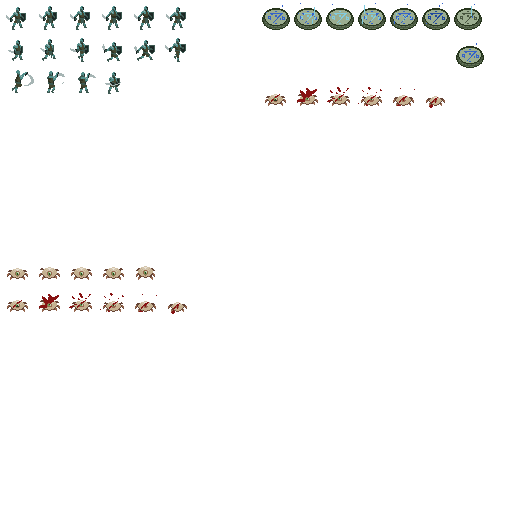
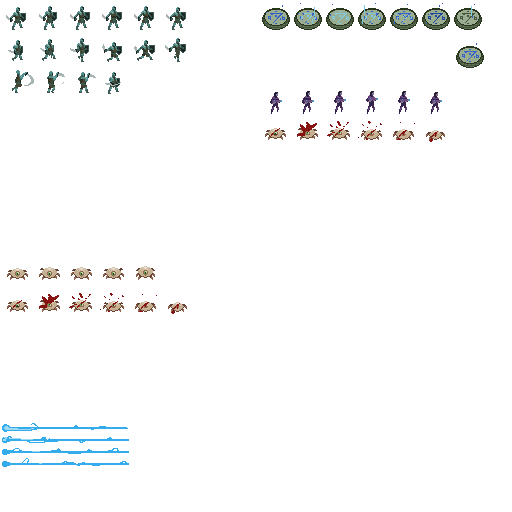
Laser beams!

Changed region(s): [[0.5, 0.1562, 0.875, 0.2812], [0.0, 0.8125, 0.25, 0.9375]]

diff --git a/Mission/Beam.cs b/Mission/Beam.cs
@@ -1,0 +1,55 @@
+using Otter;
+using System;
+using System.Collections.Generic;
+using System.Linq;
+using System.Text;
+using System.Threading.Tasks;
+
+namespace Bones
+{
+    public class Beam:Entity
+    {
+        private Spritemap<string> Sprite;
+        private List<Entity> HaveHit;
+        private float Angle;
+        public Beam(float x, float y, float angle, Entity owner)
+        {
+            Angle = angle;
+            SetPosition(x, y);
+
+            Sprite = AddGraphic(SpriteData.GetAnimation("beam"));
+            Sprite.ScaleX = 2;
+            Sprite.Play("attack");
+            Sprite.Angle = angle;
+            
+            var vec = new Vector2(Sprite.ScaledWidth,0);
+            vec =Util.Rotate(vec,angle);
+            AddCollider(new LineCollider(0, 0, vec.X, vec.Y));
+            Layer = owner.Layer - 100;
+
+            LifeSpan = 30;
+            HaveHit = new List<Entity>();
+        }
+
+        public override void Update()
+        {
+            Sprite.Alpha = 2 - (Timer / LifeSpan) * 2;
+
+            List<Entity> col = CollideEntities(X, Y, (int)Tags.Actor);
+            foreach (var c in col)
+            {
+                if (c is Enemy && !HaveHit.Contains(c))
+                {
+                    Enemy e = c as Enemy;
+                    e.Damage(1, Angle);
+                    HaveHit.Add(e);
+                }
+            }
+        }
+
+        public override void Render()
+        {
+            //Collider.Render();
+        }
+    }
+}

diff --git a/Mission/Player.cs b/Mission/Player.cs
@@ -67,12 +67,24 @@ namespace Bones
 
         private IEnumerator Attacking()
         {
-            Movement.Freeze = true;
+            Movement.Speed.X = 0;
+            Movement.Speed.Y = 0;
+            Movement.TargetSpeed.X = 0;
+            Movement.TargetSpeed.Y = 0;
             Sprite.Play("attack");
-            yield return 2;
-            Scene.Add(new Slash(X, Y-16, Angle, 0.8f, -0.8f*Side));
-            yield return 8;
-            Movement.Freeze = false;
+
+            if (Mission.Instance.World == 0)
+            {
+                yield return 2;
+                Scene.Add(new Slash(X, Y - 16, Angle, 0.8f, -0.8f * Side));
+                yield return 12;
+            }
+            else
+            {
+                yield return 8;
+                Scene.Add(new Beam(X + Side*10, Y - 18, Angle, this));
+                yield return 20;
+            }
             yield return SetState(Normal);
         }
 
@@ -158,6 +170,19 @@ namespace Bones
                 yield return 0;
             }
             yield return SetState(Normal);
+        }
+
+        internal void Swap(int World)
+        {
+            RemoveGraphic(Sprite);
+            if (Mission.Instance.World==0)
+            {
+                Sprite = AddGraphic(SpriteData.GetAnimation("soldier"));
+            }
+            else
+            {
+                Sprite = AddGraphic(SpriteData.GetAnimation("fugitive"));
+            }
         }
     }
 }

diff --git a/World/Mission.cs b/World/Mission.cs
@@ -38,11 +38,16 @@ namespace Bones
 
         public override void Update()
         {
+            if (Player == null) Player = GetEntity<Player>();
+
             if (Controls.Swap.Pressed)
             {
                 World++;
                 if (World > 1) World = 0;
                 Add(new Flash(Color.Cyan) { LifeSpan = 50, FinalAlpha = 0, Layer = Hud.LAYER + 1 });
+
+                Player.Swap(World);
+
                 var map = OgProj.Entities["tiles"].GetGraphic<Tilemap>();
                 if(World==0)
                 {
